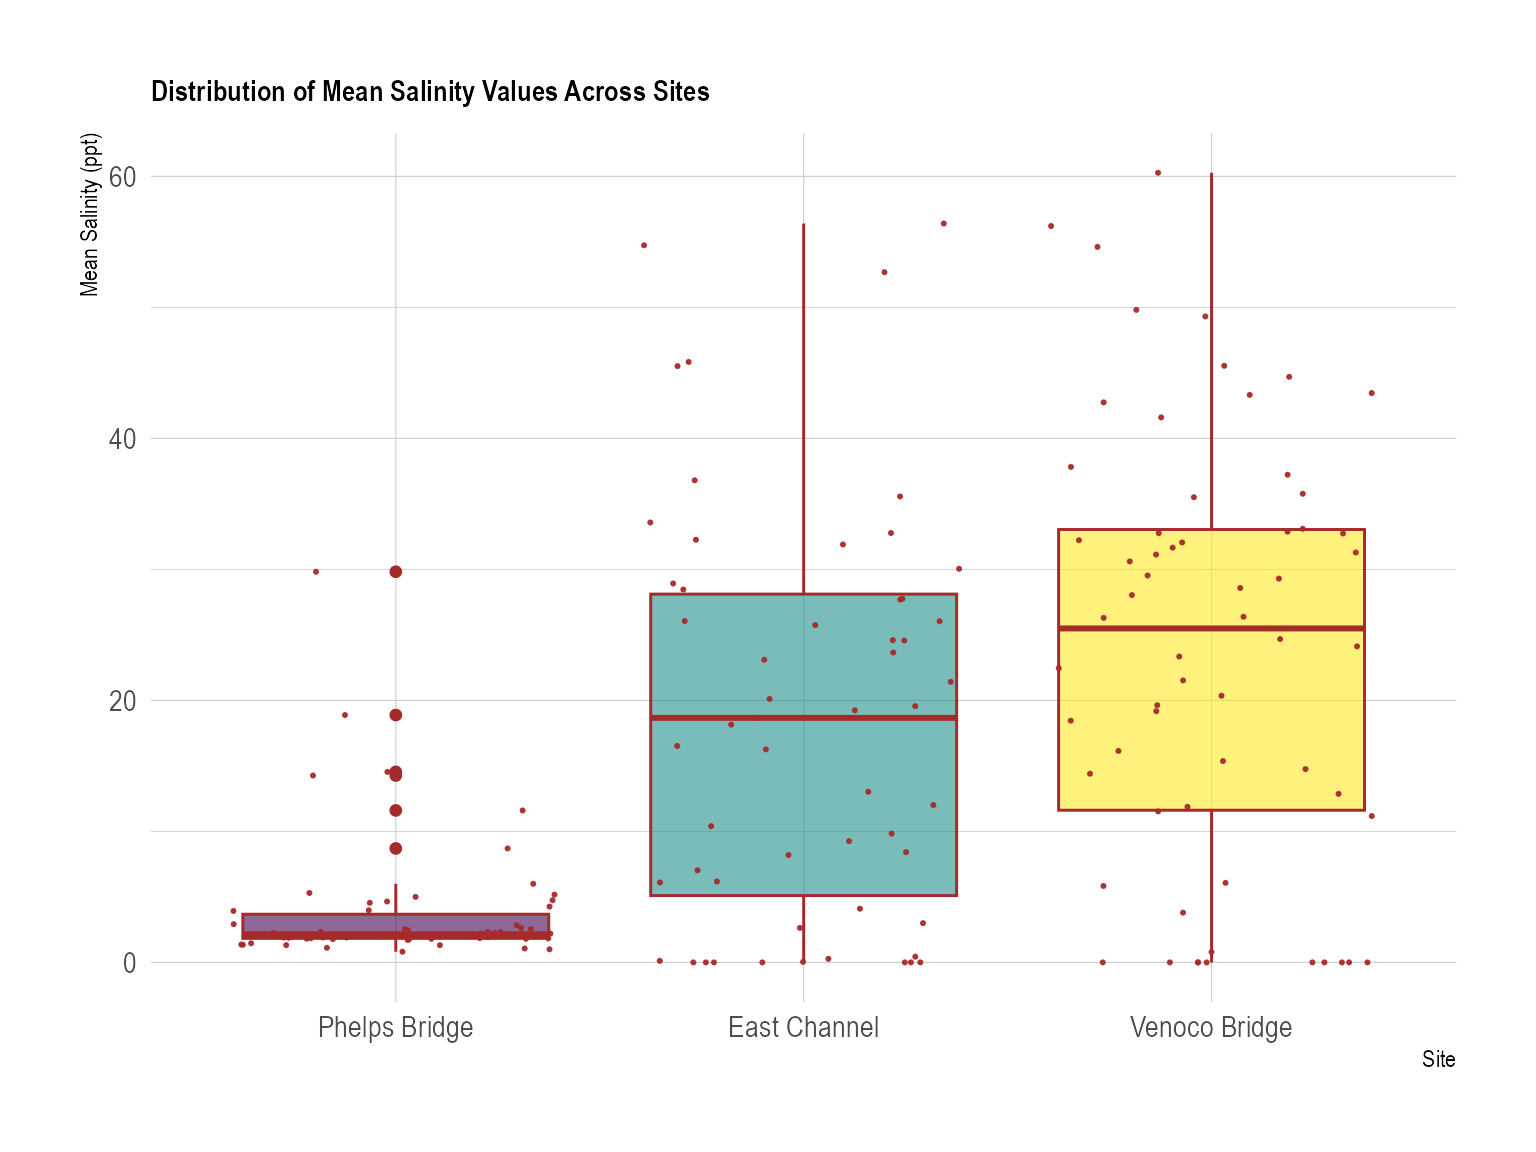
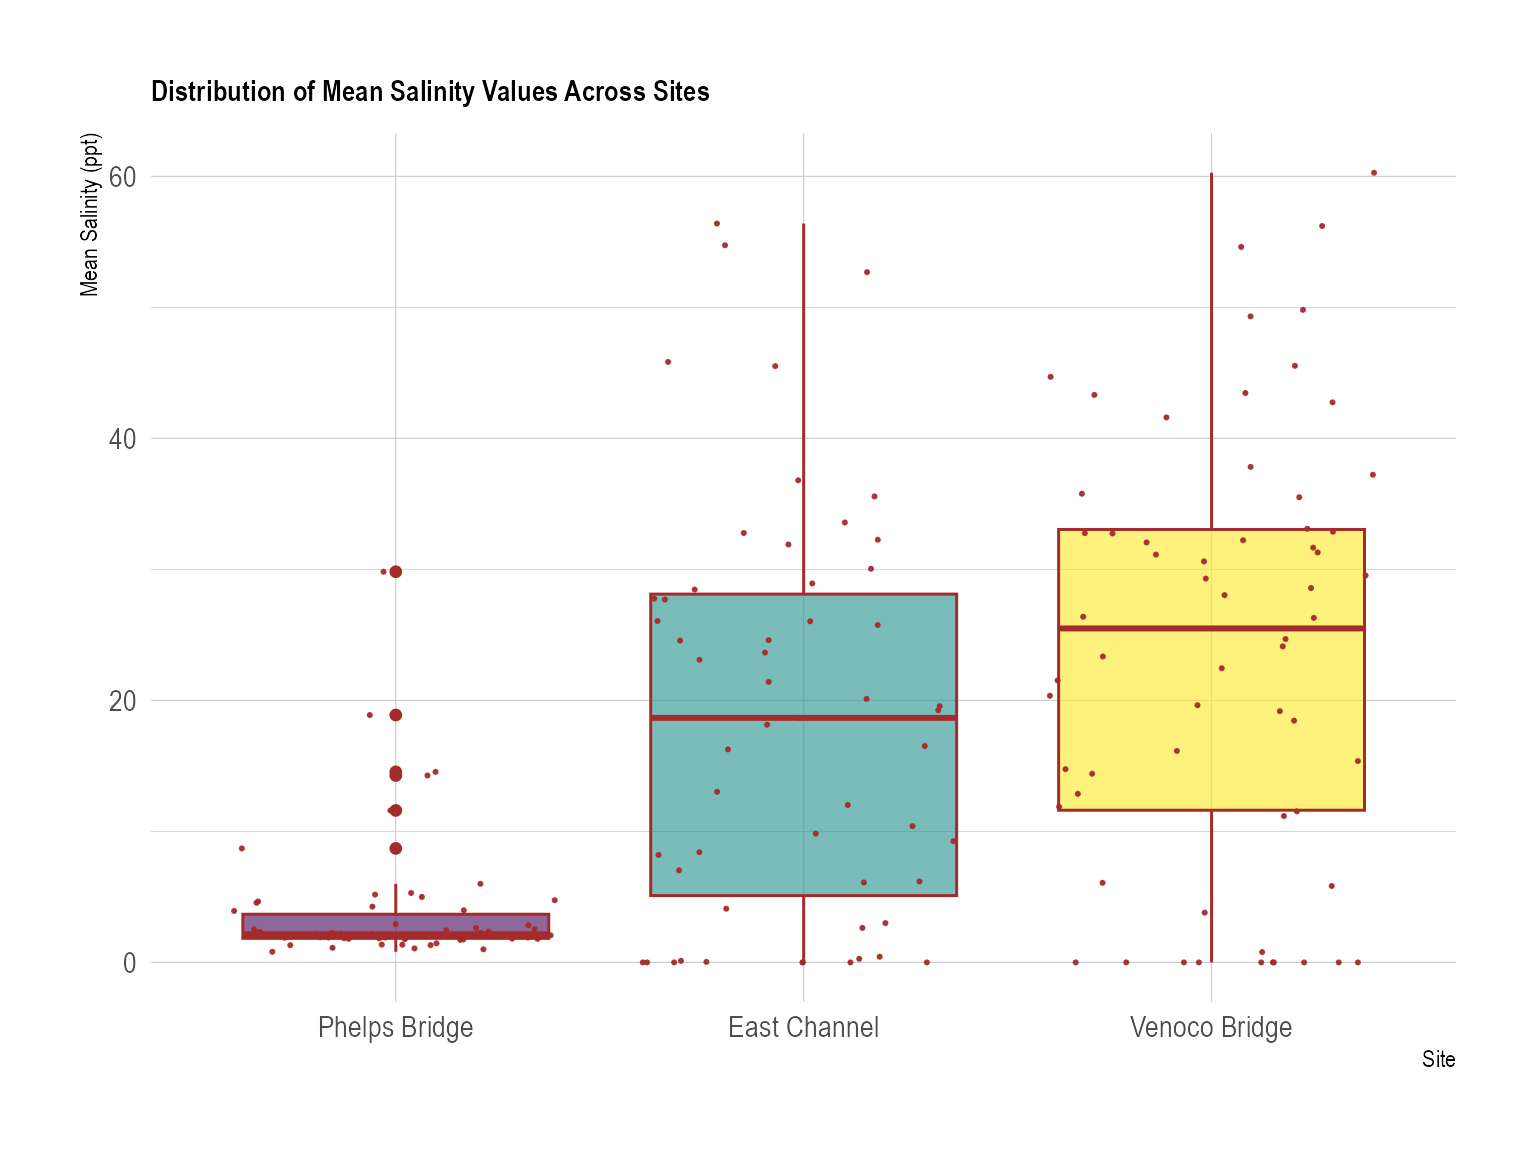
fixing table of contents and errors

Changed region(s): [[0.25, 0.8125, 0.2812, 0.8438]]

diff --git a/timeline-check-in/timeline_check-in.html b/timeline-check-in/timeline_check-in.html
@@ -76,10 +76,77 @@ pre > code.sourceCode > span > a:first-child::before { text-decoration: underlin
 
 </head>
 
-<body class="fullcontent quarto-light">
+<body class="quarto-light">
 
 <div id="quarto-content" class="page-columns page-rows-contents page-layout-article">
-
+<div id="quarto-margin-sidebar" class="sidebar margin-sidebar">
+  <nav id="TOC" role="doc-toc" class="toc-active">
+    <h2 id="toc-title">Table of contents</h2>
+   
+  <ul>
+  <li><a href="#set-up" id="toc-set-up" class="nav-link active" data-scroll-target="#set-up">1. Set up</a>
+  <ul class="collapse">
+  <li><a href="#packages" id="toc-packages" class="nav-link" data-scroll-target="#packages">Packages</a></li>
+  <li><a href="#data" id="toc-data" class="nav-link" data-scroll-target="#data">Data</a></li>
+  <li><a href="#cleaning-code" id="toc-cleaning-code" class="nav-link" data-scroll-target="#cleaning-code">Cleaning Code</a>
+  <ul class="collapse">
+  <li><a href="#cleaning-weather" id="toc-cleaning-weather" class="nav-link" data-scroll-target="#cleaning-weather">Cleaning Weather</a></li>
+  <li><a href="#cleaning-metadata" id="toc-cleaning-metadata" class="nav-link" data-scroll-target="#cleaning-metadata">Cleaning Metadata</a></li>
+  <li><a href="#cleaning-water-parameters" id="toc-cleaning-water-parameters" class="nav-link" data-scroll-target="#cleaning-water-parameters">Cleaning Water Parameters</a></li>
+  </ul></li>
+  <li><a href="#joining-code" id="toc-joining-code" class="nav-link" data-scroll-target="#joining-code">Joining Code</a>
+  <ul class="collapse">
+  <li><a href="#water-quality-metadata-water-parameters" id="toc-water-quality-metadata-water-parameters" class="nav-link" data-scroll-target="#water-quality-metadata-water-parameters">Water Quality = Metadata + Water Parameters</a></li>
+  <li><a href="#water-quality-weather-water-quality-weather" id="toc-water-quality-weather-water-quality-weather" class="nav-link" data-scroll-target="#water-quality-weather-water-quality-weather">Water Quality Weather = Water Quality + Weather</a></li>
+  </ul></li>
+  <li><a href="#wranglingsummarizing-code" id="toc-wranglingsummarizing-code" class="nav-link" data-scroll-target="#wranglingsummarizing-code">Wrangling/Summarizing Code</a>
+  <ul class="collapse">
+  <li><a href="#salinity-outliers" id="toc-salinity-outliers" class="nav-link" data-scroll-target="#salinity-outliers">Salinity Outliers</a></li>
+  <li><a href="#summarizing-precipitation" id="toc-summarizing-precipitation" class="nav-link" data-scroll-target="#summarizing-precipitation">Summarizing Precipitation</a></li>
+  <li><a href="#filtering-and-summarizing-salinity" id="toc-filtering-and-summarizing-salinity" class="nav-link" data-scroll-target="#filtering-and-summarizing-salinity">Filtering and Summarizing Salinity</a></li>
+  <li><a href="#joining-monthly_prcp-and-salinity_filtered" id="toc-joining-monthly_prcp-and-salinity_filtered" class="nav-link" data-scroll-target="#joining-monthly_prcp-and-salinity_filtered">Joining Monthly_prcp and Salinity_filtered</a></li>
+  </ul></li>
+  <li><a href="#exploratory-figure-code" id="toc-exploratory-figure-code" class="nav-link" data-scroll-target="#exploratory-figure-code">Exploratory Figure Code</a>
+  <ul class="collapse">
+  <li><a href="#exploring-salinity" id="toc-exploring-salinity" class="nav-link" data-scroll-target="#exploring-salinity">Exploring Salinity</a></li>
+  <li><a href="#exploring-water-surface-elevation" id="toc-exploring-water-surface-elevation" class="nav-link" data-scroll-target="#exploring-water-surface-elevation">Exploring Water Surface Elevation</a></li>
+  <li><a href="#creating-precipitation-peaks" id="toc-creating-precipitation-peaks" class="nav-link" data-scroll-target="#creating-precipitation-peaks">Creating Precipitation Peaks</a></li>
+  </ul></li>
+  </ul></li>
+  <li><a href="#ideas-for-analysis-and-background" id="toc-ideas-for-analysis-and-background" class="nav-link" data-scroll-target="#ideas-for-analysis-and-background">2. Ideas for analysis and background</a>
+  <ul class="collapse">
+  <li><a href="#figures" id="toc-figures" class="nav-link" data-scroll-target="#figures">Figures</a>
+  <ul class="collapse">
+  <li><a href="#figure-1.---monthly-precipitation-at-ncos-time-series-w-rain-event-lines" id="toc-figure-1.---monthly-precipitation-at-ncos-time-series-w-rain-event-lines" class="nav-link" data-scroll-target="#figure-1.---monthly-precipitation-at-ncos-time-series-w-rain-event-lines">Figure 1. - Monthly Precipitation at NCOS (Time Series w/ Rain Event Lines)</a></li>
+  <li><a href="#figure-2.-salinity-time-series-w-prcp-highlights" id="toc-figure-2.-salinity-time-series-w-prcp-highlights" class="nav-link" data-scroll-target="#figure-2.-salinity-time-series-w-prcp-highlights">Figure 2. Salinity Time Series w/ Prcp Highlights</a></li>
+  <li><a href="#figure-3.---how-salinity-relates-to-water-surface-elevation-venoco-bridge" id="toc-figure-3.---how-salinity-relates-to-water-surface-elevation-venoco-bridge" class="nav-link" data-scroll-target="#figure-3.---how-salinity-relates-to-water-surface-elevation-venoco-bridge">Figure 3. - How Salinity Relates to Water Surface Elevation (Venoco Bridge)</a></li>
+  <li><a href="#figure-4.---how-salinity-varies-between-elevation-codes" id="toc-figure-4.---how-salinity-varies-between-elevation-codes" class="nav-link" data-scroll-target="#figure-4.---how-salinity-varies-between-elevation-codes">Figure 4. - How Salinity Varies Between Elevation Codes</a></li>
+  <li><a href="#figure-5.---how-precipitation-explains-salinity" id="toc-figure-5.---how-precipitation-explains-salinity" class="nav-link" data-scroll-target="#figure-5.---how-precipitation-explains-salinity">Figure 5. - How Precipitation Explains Salinity</a></li>
+  </ul></li>
+  <li><a href="#correlation-test" id="toc-correlation-test" class="nav-link" data-scroll-target="#correlation-test">Correlation Test</a>
+  <ul class="collapse">
+  <li><a href="#calculating-spearmans-correlation" id="toc-calculating-spearmans-correlation" class="nav-link" data-scroll-target="#calculating-spearmans-correlation">Calculating Spearman’s Correlation</a></li>
+  <li><a href="#interpreting-the-results" id="toc-interpreting-the-results" class="nav-link" data-scroll-target="#interpreting-the-results">Interpreting the Results</a></li>
+  </ul></li>
+  </ul></li>
+  <li><a href="#other-exploratory-visualizations" id="toc-other-exploratory-visualizations" class="nav-link" data-scroll-target="#other-exploratory-visualizations">4. Other exploratory visualizations</a>
+  <ul class="collapse">
+  <li><a href="#comparing-across-groups" id="toc-comparing-across-groups" class="nav-link" data-scroll-target="#comparing-across-groups">Comparing Across Groups</a>
+  <ul class="collapse">
+  <li><a href="#boxplot-w-jitter---distribution-of-mean-salinity-values-across-sites" id="toc-boxplot-w-jitter---distribution-of-mean-salinity-values-across-sites" class="nav-link" data-scroll-target="#boxplot-w-jitter---distribution-of-mean-salinity-values-across-sites">Boxplot w/ Jitter - Distribution of Mean Salinity Values Across Sites</a></li>
+  <li><a href="#strip-chart-w-standard-deviation---how-mean-salinity-differs-between-sites" id="toc-strip-chart-w-standard-deviation---how-mean-salinity-differs-between-sites" class="nav-link" data-scroll-target="#strip-chart-w-standard-deviation---how-mean-salinity-differs-between-sites">Strip Chart w/ Standard Deviation - How Mean Salinity Differs Between Sites</a></li>
+  <li><a href="#ridgeline-plot---salinity-observation-distribution-across-ncos-sites" id="toc-ridgeline-plot---salinity-observation-distribution-across-ncos-sites" class="nav-link" data-scroll-target="#ridgeline-plot---salinity-observation-distribution-across-ncos-sites">Ridgeline Plot - Salinity Observation Distribution Across NCOS Sites</a></li>
+  </ul></li>
+  <li><a href="#distribution-of-observations" id="toc-distribution-of-observations" class="nav-link" data-scroll-target="#distribution-of-observations">Distribution of Observations</a>
+  <ul class="collapse">
+  <li><a href="#of-observations-per-site" id="toc-of-observations-per-site" class="nav-link" data-scroll-target="#of-observations-per-site"># of Observations per Site</a></li>
+  <li><a href="#of-observations-per-elevation-code" id="toc-of-observations-per-elevation-code" class="nav-link" data-scroll-target="#of-observations-per-elevation-code"># of Observations per Elevation Code</a></li>
+  </ul></li>
+  </ul></li>
+  <li><a href="#plan-for-elective" id="toc-plan-for-elective" class="nav-link" data-scroll-target="#plan-for-elective">5. Plan for Elective</a></li>
+  </ul>
+</nav>
+</div>
 <main class="content" id="quarto-document-content">
 
 <header id="title-block-header" class="quarto-title-block default">
